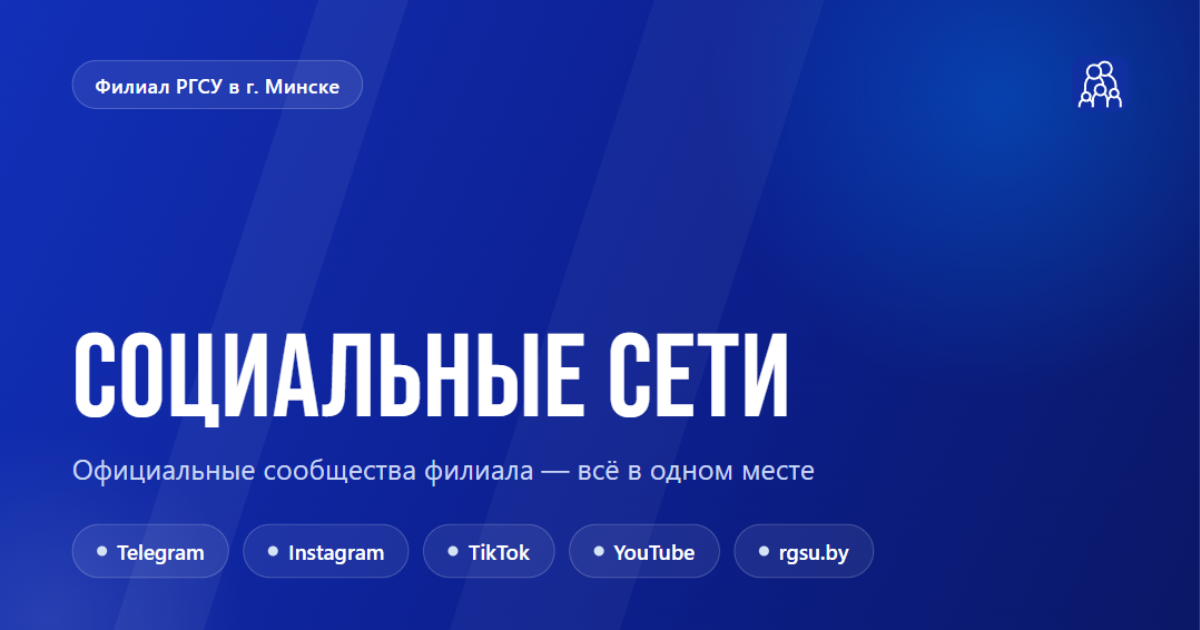
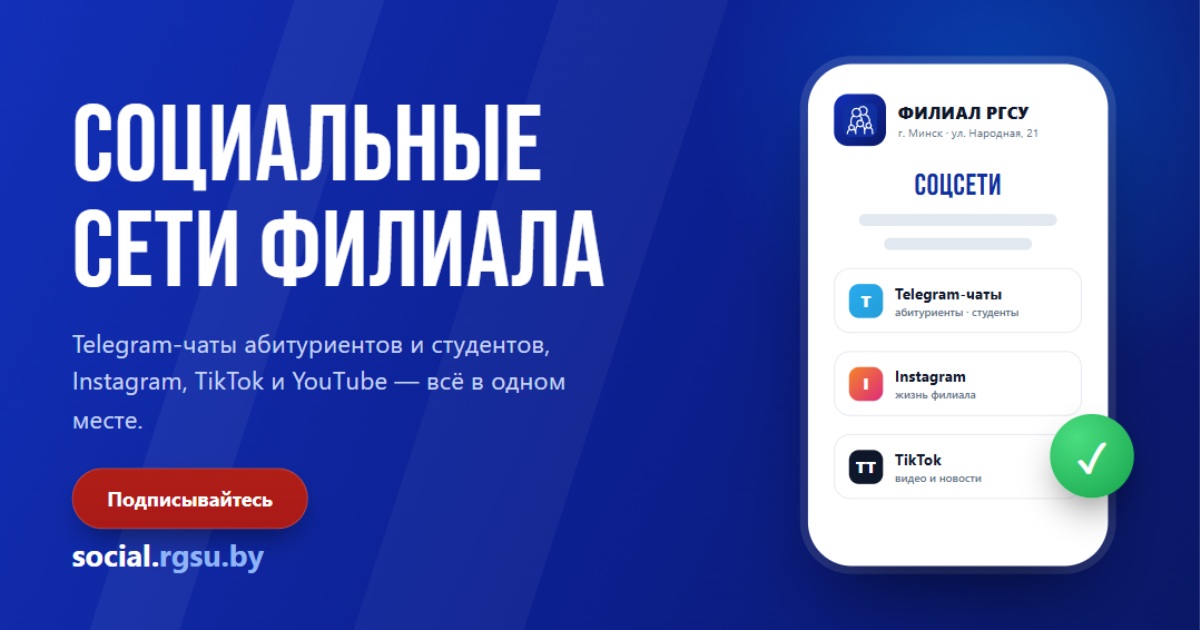
feat: og-image переделана по референсу spravka (Bebas + рубиновая CTA + мокап телефона)

diff --git a/HANDOFF.md b/HANDOFF.md
@@ -17,7 +17,7 @@
 
 **НЕ ЗАБУДЬ СДЕЛАТЬ (по приоритету):**
 1. **Перегенерировать `public/favicon.png`** — он остался от старого квадратного дизайна. Порядок: создать в public файл-рендер `_favicon-render.html` (img 320×320 c /favicon.svg), открыть через dev-сервер, скриншот 320×320 → сохранить в public/favicon.png. Браузерные скриншоты иногда таймаутят — повторять.
-2. **OG-image — готово:** `public/og-image.png` (1200×630, фирменный градиент navy→royal, Bebas-заголовок, плашки платформ) + OG/Twitter мета-теги в `index.html`. Перегенерация: создать `public/_og-render.html`, открыть на dev-сервере, скриншот 1200×630.
+2. **OG-image — готово:** `public/og-image.png` (1200×630) по референсу spravka: слева Bebas-заголовок, подзаголовок, рубиновая CTA «Подписывайтесь» и домен social.rgsu.by; справа мокап телефона с мини-карточками платформ. OG/Twitter мета-теги в `index.html`. Перегенерация: создать `public/_og-render.html`, открыть на dev-сервере, скриншот 1200×630 (в spravka аналогично, но скриптом `scripts/generate-og.cjs` через headless Edge).
 3. Пушить после каждого изменения (remote origin настроен).
 4. Идея на будущее: сайт филиала rgsu.by использует синий #1237B8 — решили НЕ заводить третий синий, у нас Pantone 286 C #102FA1.
 
